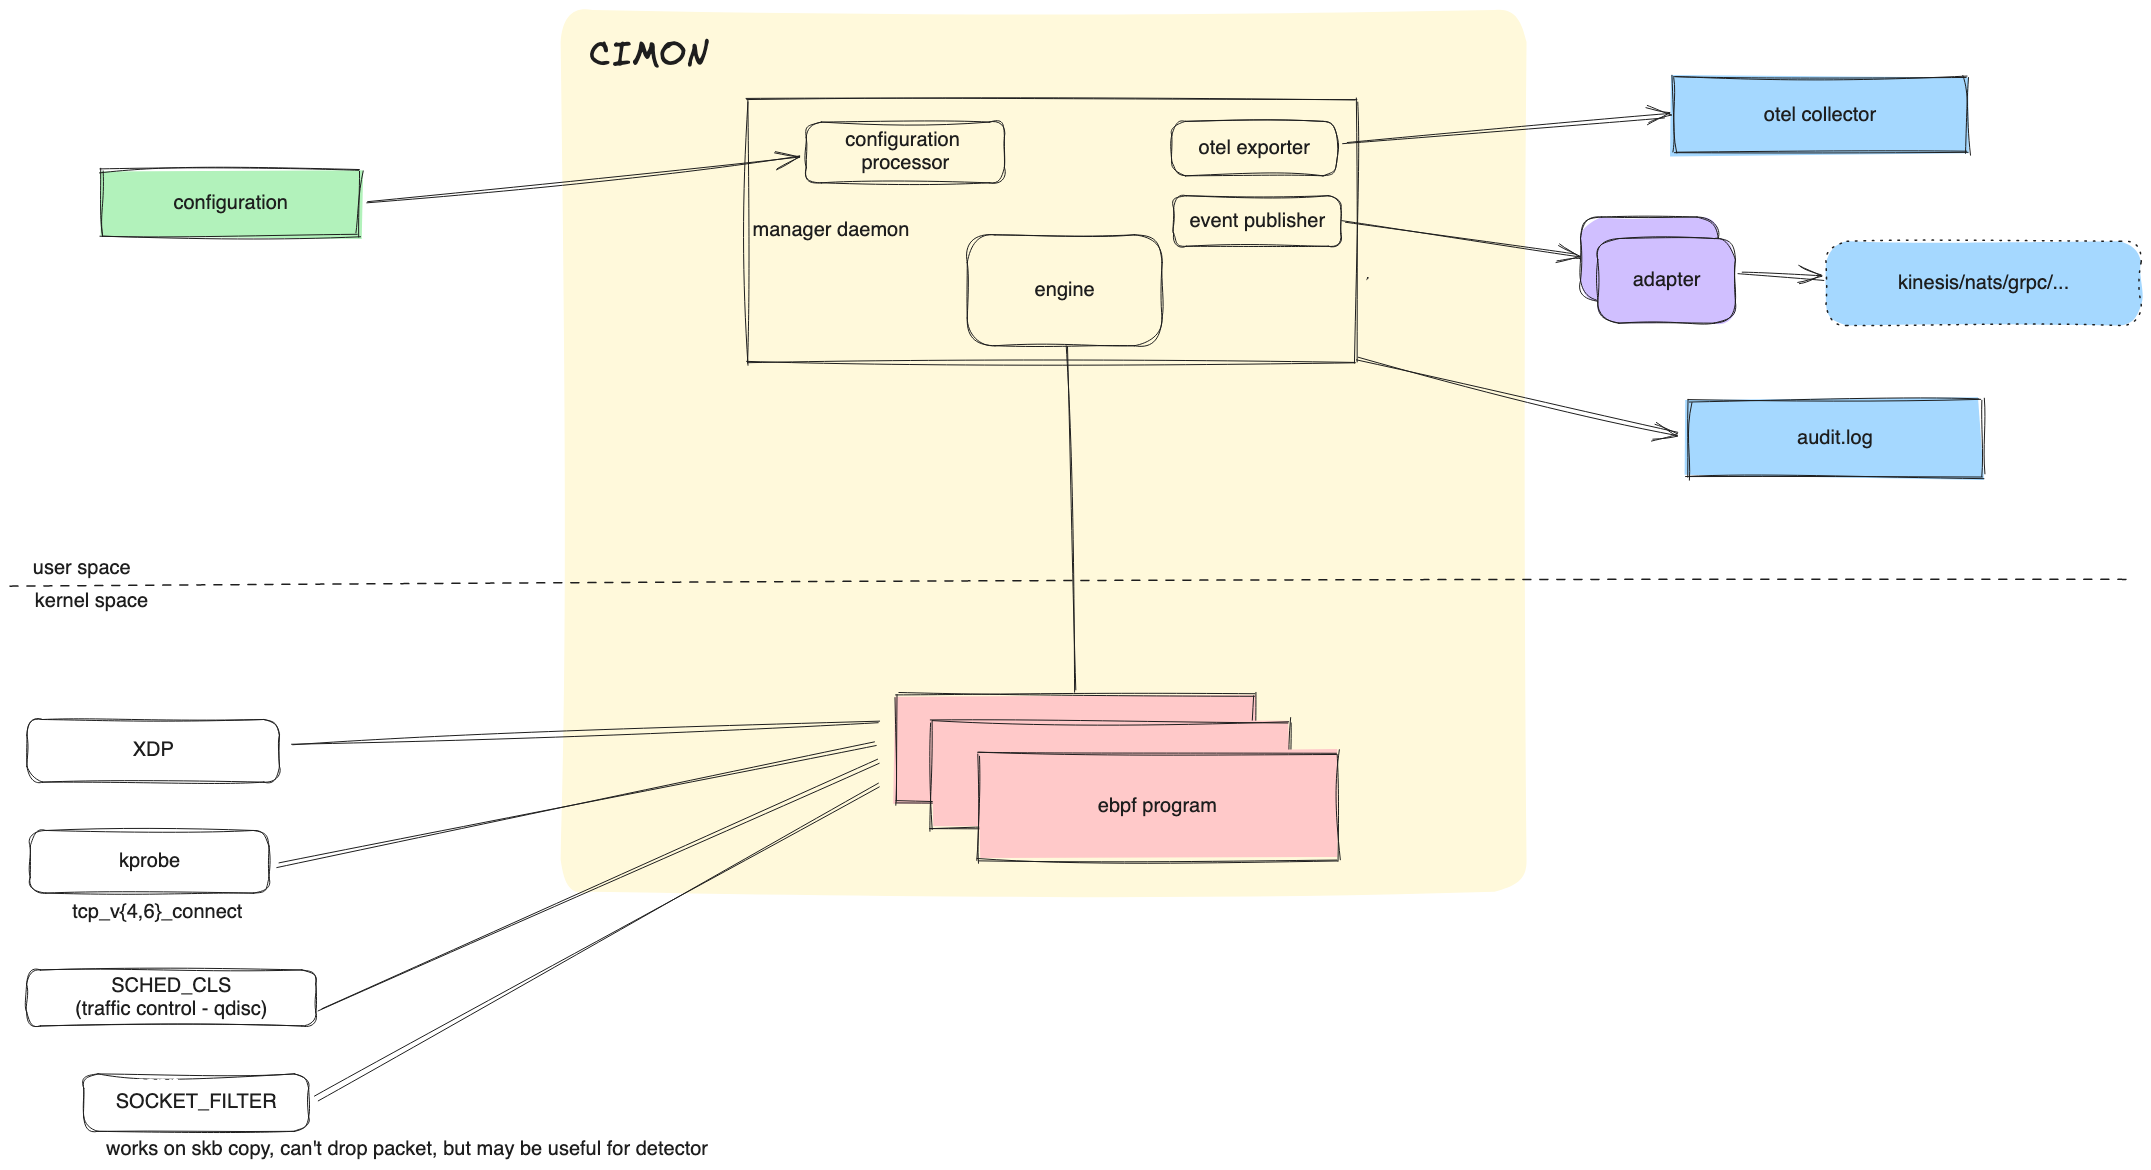
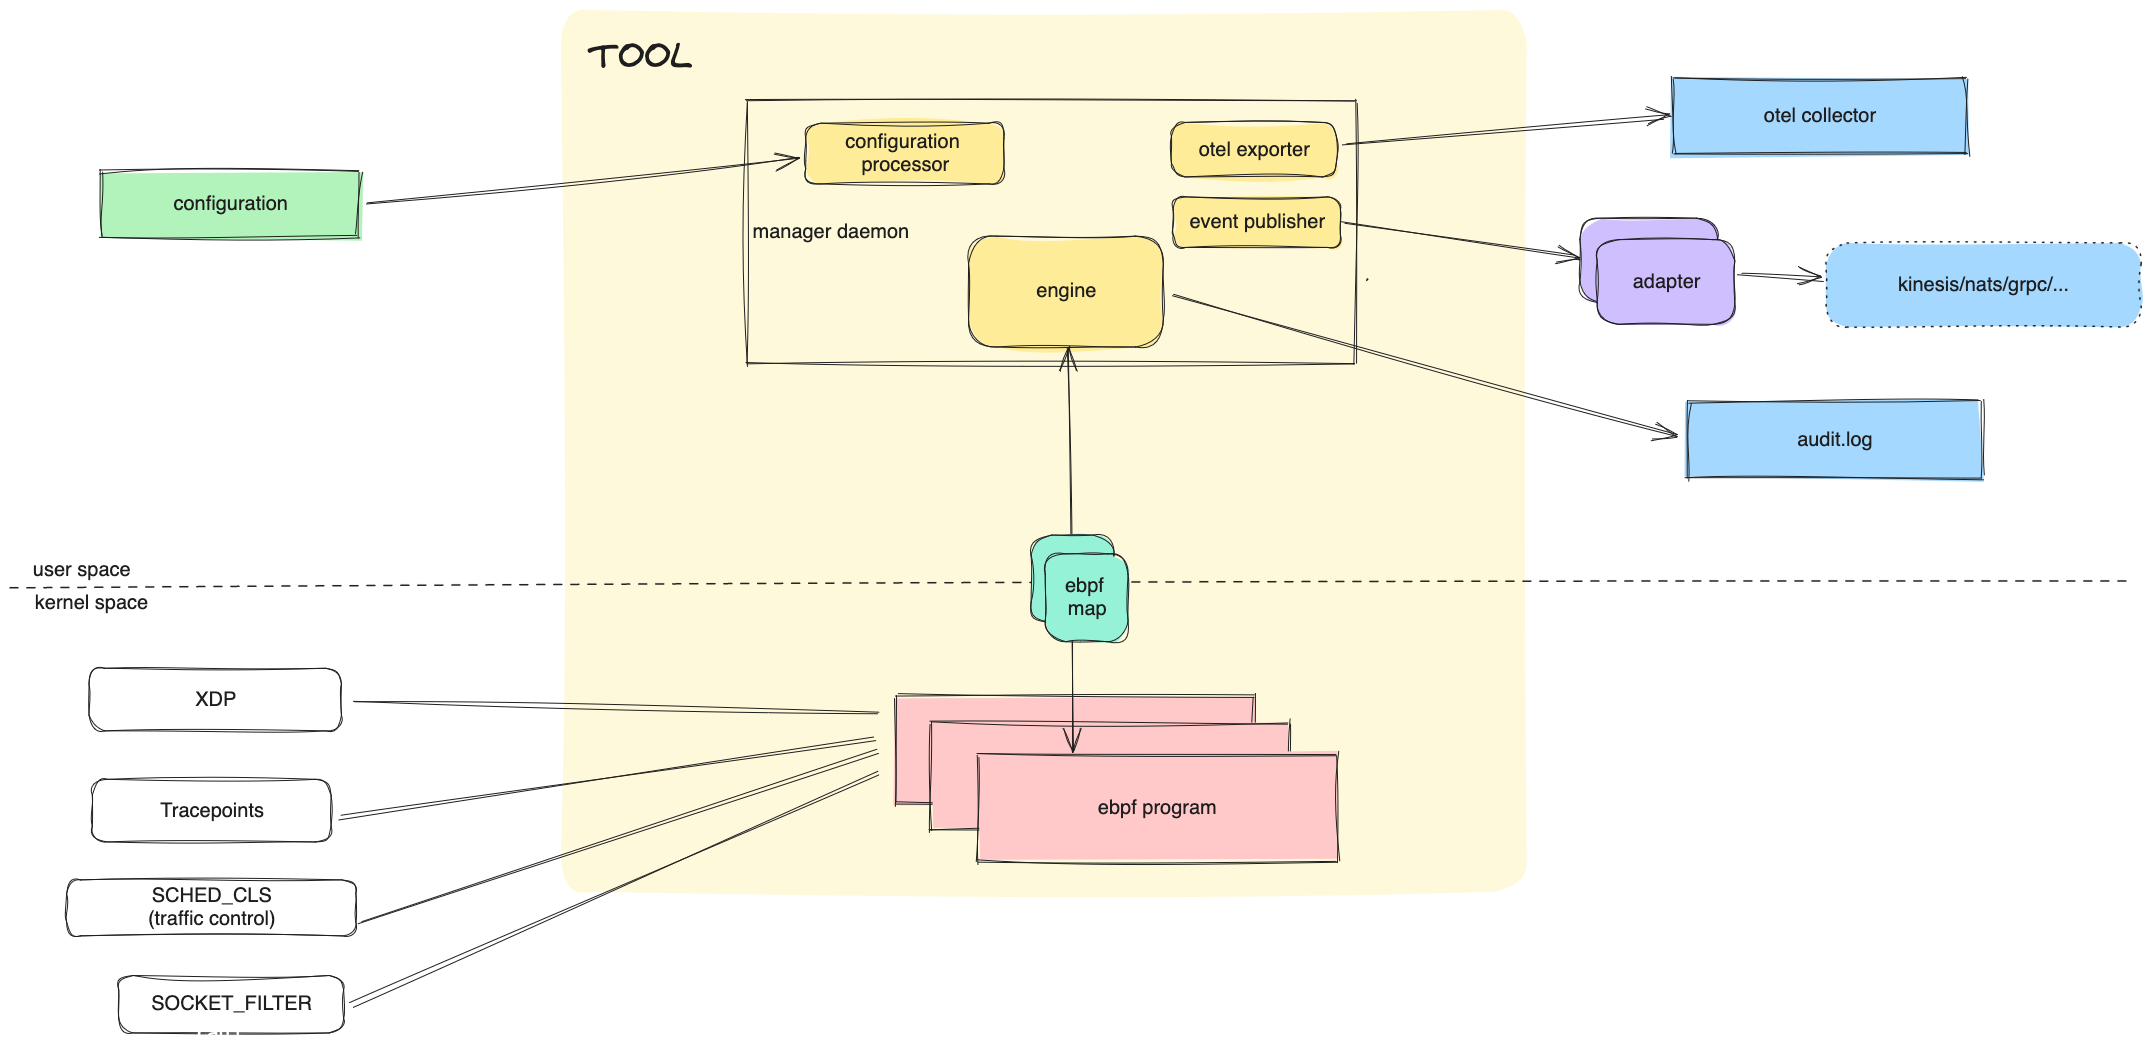
Draft remaining sections

diff --git a/design.md b/design.md
@@ -56,9 +56,9 @@ It creates rules for the engine and provides configuration to other modules.
 ### Engine
 The Engine manages the execution of ebpf programs, taking its input from rules established by the Configuration Processor.
 
-The TOOL includes ebpf program templates. These templates are populated with specific values derived from the rules, after which they are compiled and loaded into the kernel.
+The TOOL is shipped with predefined set of capabilities. Capability is a pair of ebpf program templates and Engine logic. 
 
-❗ ADD EXAMPLE SOURCE CODE HERE
+Templates are populated with specific values derived from the rules, after which they are compiled and loaded into the kernel.
 
 ### otel exporter
 OpenTelemetry exporter is responsible for exporting traces, metrics and logs to the OpenTelemetry collector.
@@ -76,9 +76,9 @@ Map type and data structure is ebpf-program specific.
 # Feature capabalities
 The issue we aim to address is the identification and blocking of undesired network connections. In this context, we define a network connection as a L3 connection between hosts in an IPv4 or IPv6 network.
 
-We will primarily concentrate on the most frequently used L4 protocols, which include TCP, UDP, and ICMP. Additionally, we will consider L7 protocols such as HTTP, HTTPS, DNS, SSH, and others.
+We will primarily concentrate on the most frequently used L4 protocols, which include TCP, UDP, and ICMP. Additionally, we will consider L7 protocols such as HTTP, HTTPS, DNS, SSH.
 
-Following is a list of features that the TOOL system will support for filtering network connections:
+Following is a list of features that the TOOL will support for filtering network connections:
 
 ## L3
     - IP filtering
@@ -104,26 +104,120 @@ Following is a list of features that the TOOL system will support for filtering 
     - HTTP headers
     - Protocol version
 ### HTTPS
-    - CA filtering
+    - CA filtering based on CN, exp date, issuer, etc.
     - TLS version
 
 ### DNS
     - Domain
-    - enforce DNS over TLS
+    - DNS over TLS
 
 ### SSH
-    - incomming connections filtering by IP or public key
+    - incomming connections filtering by IP (IP range) or public key
     - outgoing connections filtering by IP (IP range) or hostname
 
-### Other
+## Other
     - anomalies detection based on previous traffic
     - profiling, statistics
 
 # Technical implementation details
+## Configuration processor
+The TOOL system will be configured using a configuration file. The configuration file will be in YAML format and will be validated using JSON schema.
 
+The configuration file will contain the following sections:
+- `mode` - the mode in which the TOOL system will operate (detect or prevent)
+- `rules` - a list of rules that define the filtering criteria for network connections
+- `logging` 
+- `otel` 
+- `event_publisher` 
+
+### Rules
+Each rule will contain the following fields:
+- `name` - a unique name for the rule
+- `action` - the action to be taken when the rule is matched (allow or block)
+- `layer3` - L3 filtering criteria
+- `layer4` - L4 filtering criteria
+- `layer7` - L7 filtering criteria
+
+## Engine
+The Engine is responsible for:
+- loading an unloading of ebpf programs
+- reading and processing ebpf programs' events passed via ebpf map
+- reacting on configuration changes
+
+It will take its input from rules established by the Configuration Processor.
+
+For example, for a rule that blocks all connections from a specific IP address, an ebpf program will emit an event when a connection to that IP address is detected.  
+```c
+enum event_type {
+    DETECTED, // connection detected but prevention mode is not enabled
+    ALLOWED,
+    BLOCKED,
+};
+
+// Structure to hold data that will be sent to user space
+struct event {
+    u32 ip_src;
+    enum event_type type;
+};
+```
+
+## ebpf programs
+There are few places where ebpf programs can be attached to. <br>
+We need to decide on performance and maintainability trade-offs when choosing the right place for ebpf programs.
+
+### XDP
+Works only for incomming traffic. 
+
+`xdp_md` struct exposes data about the packet:
+- `ethhdr` - ethernet header
+- `iphdr` - IP header
+- `tcphdr` - TCP header
+- `udphdr` - UDP header
+- `icmphdr` - ICMP header
+
+It allows to realively easdily filter traffic based on L3 and L4 criteria.
+
+### Traffic control
+Works for both incomming and outgoing traffic.
+While it's more flexible than XDP, it's a bit slower because packet is already processd in kernel's netowrk stack. 
+
+Incomming traffic in handled by XDP, so we can use tc for outgoing (egress) traffic.
+
+### Socket filter
+Socket filter can be used for L7 traffic filtering.<br>
+Our case is descibed here: [https://eunomia.dev/tutorials/23-http/#capturing-http-traffic-with-ebpf-socket-filter](https://eunomia.dev/tutorials/23-http/#capturing-http-traffic-with-ebpf-socket-filter)
+
+While L3-4 processing required only single packet as an input, in L7 we need to process multiple packets to understand the context of the connection.
+It means for L7 filters we need to move logic from ebpf program to user space.<br>
+It will incure some performance penalty, but it seems acceptable due to nature of L7 protocols. Performance should be measured before drawing any conclusions.
+
+### Syscall tracepoints
+Another possible way for L7 filtering is to use syscall tracepoints. <br>
+L7 session data can be collected from syscalls and then processed in user space.
+
+As mentioned [here](https://eunomia.dev/tutorials/23-http/#hook-locations-and-flow), syscalls that typically need to be hooked include: `socket`, `bind`, `listen`, `accept`, `read`, `write`.
 
 # Limitation and Constraints
+## Environments
+To install and use the TOOL, user needs to have superuser privileges. It is not a problem when working in on premise or IaaC environments. <br>
 
-# Testing and validdation
+However, in PaaS or SaaS environments, it needs to be supported by the provider.
+## Linux distributions
+No limitations, as long as the kernel supports eBPF.
+## Kernel versions
+Depending on scope of features provided, different kernel versions may be required: [BPF Features by Linux Kernel Version](https://github.com/iovisor/bcc/blob/master/docs/kernel-versions.md)
+## Hardware
+The TOOL is hardware agnostic.<br>
+SmartNIC can significantly improve performance of XDP programs because it offloads packet processing from CPU to NIC.
+## Scalability
+Need to be tested in test environment with network traffic generator against various hardware configurations.
 
-# Conclusion
+# Sources
+- https://link.springer.com/article/10.1007/s10922-022-09687-z
+- https://eunomia.dev/tutorials/23-http/
+- https://stackoverflow.com/questions/76637174/how-to-write-an-ebpf-xdp-program-to-drop-tcp-packets-containing-a-certain-byte-p
+- https://developers.redhat.com/blog/2021/04/01/get-started-with-xdp#task_1__write_and_run_a_simple_program_with_xdp
+- https://www.datadoghq.com/blog/xdp-intro/
+- https://www.stackpath.com/blog/bpf-hook-points-part-1/
+- https://unix.stackexchange.com/questions/688065/how-do-packets-flow-through-the-kernel
+- Learning eBPF - Liz Rice 
